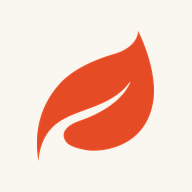
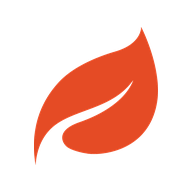
Add files via upload

diff --git a/index.html b/index.html
@@ -7,14 +7,12 @@
 <meta name="apple-mobile-web-app-status-bar-style" content="black-translucent">
 <meta name="apple-mobile-web-app-title" content="Aspen Spas">
 <meta name="mobile-web-app-capable" content="yes">
-<meta name="theme-color" content="#1a1410">
+<meta name="theme-color" content="#2C221C">
 <link rel="manifest" href="manifest.json">
-<!-- Aspen Spas Delivery icon: two movers carrying a spa (matches the team's actual work) -->
[5 lines of base64/hex data omitted]
+<!-- Aspen Spas leaf icon (PWA install + favicon) -->
+<link rel="apple-touch-icon" sizes="180x180" href="apple-touch-icon.png">
+<link rel="icon" type="image/png" sizes="32x32" href="favicon-32.png">
+<link rel="icon" type="image/png" sizes="16x16" href="favicon-16.png">
 <title>Aspen Spas — Delivery Tracker</title>
 <script src="https://www.gstatic.com/firebasejs/10.12.2/firebase-app-compat.js"></script>
 <script src="https://www.gstatic.com/firebasejs/10.12.2/firebase-database-compat.js"></script>
@@ -26,6 +24,7 @@
 <script src="https://apis.google.com/js/api.js" async defer></script>
 <!-- PDF.js for invoice auto-fill -->
 <script src="https://cdnjs.cloudflare.com/ajax/libs/pdf.js/3.11.174/pdf.min.js"></script>
+<link rel="preconnect" href="https://fonts.googleapis.com"><link rel="preconnect" href="https://fonts.gstatic.com" crossorigin><link href="https://fonts.googleapis.com/css2?family=Fraunces:opsz,wght@9..144,500;9..144,600;9..144,700&display=swap" rel="stylesheet">
 <style>
 *{margin:0;padding:0;box-sizing:border-box}
 :root{
@@ -1094,6 +1093,115 @@ th,td{padding:7px 6px}
 .aspen-subtitle{margin-top:9px !important;opacity:.85}
 .filters{position:sticky !important;top:0 !important;z-index:25 !important;background:var(--bg-cream) !important;padding-top:12px !important;padding-bottom:12px !important;box-shadow:0 6px 12px -10px rgba(94,67,41,.4)}
 
+/* ===== Aspen Warm — Stage 1 (brand theme overrides, CSS-only) 2026-06-29 ===== */
+:root{
+  --aspen-orange:#E54B25;        /* true brand leaf orange (was #e67e2e) */
+  --aspen-orange-dark:#C73C18;
+  --bg-cream:#F4EDE1;            /* warmer cream canvas */
+  --aspen-black:#2C221C;        /* espresso header (was #1a1410) */
+  --border-soft:#E7DCC9;        /* warm hairlines */
+  --border-mid:#D9CDB7;
+}
+.aspen-logo-text{font-family:'Fraunces',Georgia,serif;font-weight:600;letter-spacing:.01em}
+.aspen-subtitle{letter-spacing:.3em}
+.c-name{font-family:'Fraunces',Georgia,serif;font-weight:600;letter-spacing:.004em}
+.cal-title{font-family:'Fraunces',Georgia,serif;font-weight:600}
+.card{border-radius:14px}
+
+/* ===== Aspen Warm — Stage 2 (Today route landing) 2026-06-29 ===== */
+.rt2{max-width:960px;margin:0 auto;padding:6px 4px 30px}
+.rt2-head{display:flex;justify-content:space-between;align-items:flex-end;gap:16px;flex-wrap:wrap;margin-bottom:16px}
+.rt2-kicker{font-size:12px;font-weight:700;letter-spacing:.04em;color:var(--aspen-orange)}
+.rt2-title{font-family:'Fraunces',Georgia,serif;font-weight:600;font-size:26px;color:var(--text-primary);margin-top:4px}
+.rt2-sub{font-size:13.5px;color:var(--text-secondary);margin-top:4px}
+.rt2-nav{display:flex;align-items:center;gap:6px}
+.rt2-ibtn,.rt2-today{height:36px;border:1px solid var(--border-mid);background:var(--bg-card);border-radius:10px;color:var(--text-secondary);font-weight:600;cursor:pointer}
+.rt2-ibtn{width:36px}.rt2-today{padding:0 13px;font-size:13px}
+.rt2-date{height:36px;border:1px solid var(--border-mid);background:var(--bg-card);border-radius:10px;padding:0 10px;color:var(--text-primary);font-family:inherit;font-size:13px}
+.rt2-depot{display:flex;justify-content:space-between;align-items:center;gap:12px;flex-wrap:wrap;font-size:12.5px;color:var(--text-secondary);background:var(--bg-card);border:1px solid var(--border-soft);border-radius:12px;padding:10px 14px;margin-bottom:12px}
+.rt2-route-go{font-weight:700;color:var(--aspen-orange);text-decoration:none}
+.rt2-warn{font-size:12px;color:#9a6a2a;background:#fbf1dd;border:1px solid #efdcb4;border-radius:10px;padding:8px 12px;margin-bottom:12px}
+.rt2-stops{display:flex;flex-direction:column;gap:11px}
+.rt2-stop{display:flex;gap:14px;background:var(--bg-card);border:1px solid var(--border-soft);border-left:4px solid var(--aspen-orange);border-radius:14px;padding:14px 16px;cursor:pointer;box-shadow:var(--shadow-card);transition:transform .12s,box-shadow .12s}
+.rt2-stop:hover{transform:translateX(2px);box-shadow:var(--shadow-card-hover)}
+.rt2-stop.upcoming{border-left-color:#1C8FA8}
+.rt2-stop.overdue,.rt2-stop.action{border-left-color:var(--aspen-orange)}
+.rt2-stop.delivered,.rt2-stop.complete{border-left-color:#2F7D52}
+.rt2-stop.hold{border-left-color:#b08968;opacity:.85}
+.rt2-num{flex:0 0 auto;width:34px;height:34px;border-radius:10px;background:var(--bg-cream);border:1px solid var(--border-soft);display:flex;align-items:center;justify-content:center;font-family:'Fraunces',Georgia,serif;font-weight:600;font-size:16px;color:var(--text-primary)}
+.rt2-body{flex:1;min-width:0}
+.rt2-row1{display:flex;justify-content:space-between;align-items:flex-start;gap:10px}
+.rt2-name{font-family:'Fraunces',Georgia,serif;font-weight:600;font-size:16px;color:var(--text-primary)}
+.rt2-pay{font-size:11.5px;font-weight:700;padding:3px 9px;border-radius:20px;white-space:nowrap}
+.rt2-pay.paid{background:#E6F0E7;color:#2F7D52}
+.rt2-pay.due{background:#FBEAE2;color:#BE4A2F}
+.rt2-ret{font-size:10.5px;font-weight:700;color:#BE4A2F;margin-left:8px}
+.rt2-meta{font-size:12.5px;color:var(--text-secondary);margin-top:3px}
+.rt2-addr{font-size:12.5px;color:var(--text-secondary);margin-top:5px}
+.rt2-foot{display:flex;align-items:center;gap:10px;margin-top:9px}
+.rt2-slot{font-size:11px;font-weight:700;color:var(--text-secondary);background:var(--bg-cream);border:1px solid var(--border-soft);padding:3px 9px;border-radius:20px}
+.rt2-tech{font-size:12px;color:var(--text-secondary)}
+.rt2-maps{margin-left:auto;font-size:12px;font-weight:700;color:var(--aspen-orange);background:none;border:1px solid var(--border-mid);border-radius:8px;padding:5px 11px;cursor:pointer}
+.rt2-maps:hover{background:var(--bg-cream)}
+.rt2-empty{text-align:center;color:var(--text-secondary);padding:50px 20px;background:var(--bg-card);border:1px dashed var(--border-mid);border-radius:14px}
+
+/* ===== Aspen Warm — Stage 3 (calendar: warm chips + side panel) 2026-06-29 ===== */
+.cal-vbtn.act{background:var(--aspen-orange);border-color:var(--aspen-orange);color:#fff}
+.cal-cell:hover{background:var(--bg-cream)}
+.cal-cell.today{background:rgba(229,75,37,.07);border-color:rgba(229,75,37,.45)}
+.cal-cell.today .cal-dn{color:var(--aspen-orange)}
+.cal-more{color:var(--aspen-orange)}
+.cal-ev{border-radius:6px}
+.cal-ev.upcoming{background:#E2F0F2;color:#0E5C6B;border-left-color:#1C8FA8}
+.cal-ev.overdue{background:#FBEAE2;color:#BE4A2F;border-left-color:#BE4A2F}
+.cal-ev.action{background:#F6E7DD;color:#C03D12;border-left-color:#E54B25}
+.cal-ev.delivered,.cal-ev.complete{background:#E6F0E7;color:#2F7D52;border-left-color:#2F7D52}
+.cal-ev.sel{outline:2px solid var(--aspen-orange);outline-offset:-1px}
+.cal-wk-label.today{background:rgba(229,75,37,.08)}
+.cal-wk-label.today .cw-day{color:var(--aspen-orange)}
+.cal-wk-ev.sel{background:rgba(229,75,37,.10)}
+.cal-split{display:flex;gap:18px;align-items:flex-start}
+#calBody{flex:1;min-width:0}
+.cal-rail{display:none}
+.cal-split.open .cal-rail{display:block;flex:0 0 360px;position:sticky;top:14px}
+@media(max-width:1000px){.cal-split{flex-direction:column}.cal-split.open .cal-rail{flex:none;width:100%;position:static}}
+.crl-card{background:var(--bg-card);border:1px solid var(--border-soft);border-radius:16px;overflow:hidden;box-shadow:var(--shadow-card-hover)}
+.crl-head{background:#2C221C;color:#F0E7DA;padding:16px 18px;position:relative}
+.crl-x{position:absolute;top:12px;right:12px;width:28px;height:28px;border-radius:8px;border:1px solid rgba(255,255,255,.2);color:#CFC0B0;background:none;cursor:pointer}
+.crl-nm{font-family:'Fraunces',Georgia,serif;font-weight:600;font-size:18px;padding-right:30px}
+.crl-sub{font-size:12px;color:#C9AE99;margin-top:5px}
+.crl-pill{display:inline-block;margin-top:9px;font-size:10px;font-weight:800;letter-spacing:.05em;text-transform:uppercase;padding:4px 10px;border-radius:20px;background:rgba(255,255,255,.16);color:#F3E7DA}
+.crl-body{padding:16px 18px}
+.crl-actions{display:flex;gap:8px;margin-bottom:14px}
+.crl-btn{flex:1;padding:9px;border-radius:10px;font-weight:700;font-size:13px;border:1px solid var(--border-mid);background:var(--bg-cream);color:var(--text-secondary);cursor:pointer}
+.crl-btn.go{background:var(--aspen-orange);color:#fff;border-color:var(--aspen-orange)}
+.crl-row{display:flex;gap:7px;font-size:13px;color:var(--text-secondary);margin-bottom:9px}
+.crl-grid{display:grid;grid-template-columns:1fr 1fr;gap:9px;margin-top:4px}
+.crl-cell{background:var(--bg-cream);border:1px solid var(--border-soft);border-radius:10px;padding:9px 11px}
+.crl-cell .l{font-size:10px;font-weight:700;letter-spacing:.05em;text-transform:uppercase;color:var(--text-tertiary)}
+.crl-cell .v{font-size:14px;font-weight:700;color:var(--text-primary);margin-top:3px}
+.crl-cell.bal{grid-column:1/-1;background:#E6F0E7;border-color:#cfe6d6}.crl-cell.bal .v{color:#2F7D52}
+.crl-cell.bal.due{background:#FBEAE2;border-color:#f0cfc2}.crl-cell.bal.due .v{color:#BE4A2F}
+.crl-sect{font-size:10px;font-weight:800;letter-spacing:.06em;text-transform:uppercase;color:var(--aspen-orange);margin:14px 0 8px}
+.crl-tags{display:flex;gap:6px;flex-wrap:wrap}
+.crl-tag{font-size:12px;font-weight:600;padding:5px 10px;border-radius:8px;border:1px solid var(--border-mid);color:var(--text-secondary)}
+.crl-note{background:var(--bg-cream);border:1px solid var(--border-soft);border-left:3px solid var(--aspen-orange);border-radius:0 10px 10px 0;padding:10px 12px;font-size:13px;color:var(--text-secondary);line-height:1.5}
+
+/* ===== Aspen Warm — Warm/Bold calendar toggle (variants A + C) 2026-06-29 ===== */
+.cal-style{display:flex;background:var(--surf-soft);border:2px solid var(--hairline);border-radius:9px;padding:2px;margin-left:8px}
+.cal-style-btn{padding:6px 12px;border-radius:7px;font-weight:700;font-size:12px;color:var(--ink-mid);background:none;border:none;cursor:pointer}
+.cal-style-btn.act{background:var(--aspen-orange);color:#fff}
+.cal-bold .cal-ev{color:#fff;border-left-color:transparent}
+.cal-bold .cal-ev.upcoming{background:#1C8FA8}
+.cal-bold .cal-ev.overdue{background:#BE4A2F}
+.cal-bold .cal-ev.action{background:#E54B25}
+.cal-bold .cal-ev.delivered,.cal-bold .cal-ev.complete{background:#2F7D52}
+.cal-bold .cal-ev .ce-sub{opacity:.92;color:#fff}
+.cal-bold .cal-ev.sel{outline-color:var(--aspen-black)}
+.cal-bold .crl-head{background:var(--st);color:#fff}
+.cal-bold .crl-head .crl-sub{color:rgba(255,255,255,.85)}
+.cal-bold .crl-head .crl-x{border-color:rgba(255,255,255,.35);color:#fff}
+.cal-bold .crl-head .crl-pill{background:rgba(255,255,255,.22);color:#fff}
 </style>
 <script>
 // === PWA SERVICE WORKER (network-first) ===
@@ -1232,9 +1340,9 @@ navigator.serviceWorker.register('sw.js').then(reg=>{console.log('[PWA] SW regis
 <div class="cal-wrap hidden" id="calWrap">
 <div class="cal-hdr">
 <div class="cal-nav"><button class="cal-nbtn" onclick="calNav(-1)">&#9664;</button><button class="cal-nbtn" onclick="calNav(0)">Today</button><button class="cal-nbtn" onclick="calNav(1)">&#9654;</button><span class="cal-title" id="calTitle"></span></div>
-<div class="cal-views"><button class="cal-vbtn" data-v="month" onclick="setCalView('month')">Month</button><button class="cal-vbtn" data-v="week" onclick="setCalView('week')">Week</button><button class="cal-vbtn" data-v="day" onclick="setCalView('day')">Day</button></div>
+<div class="cal-views"><button class="cal-vbtn" data-v="month" onclick="setCalView('month')">Month</button><button class="cal-vbtn" data-v="week" onclick="setCalView('week')">Week</button><button class="cal-vbtn" data-v="day" onclick="setCalView('day')">Day</button></div><div class="cal-style"><button class="cal-style-btn act" data-s="warm" onclick="setCalStyle('warm')">Warm</button><button class="cal-style-btn" data-s="bold" onclick="setCalStyle('bold')">Bold</button></div>
 </div>
-<div id="calBody"></div>
+<div class="cal-split" id="calSplit"><div id="calBody"></div><aside class="cal-rail" id="calRail"></aside></div>
 </div>
 <div class="charts" id="charts"></div>
 <div class="ov hidden" id="ov" onclick="closeOv()"><div class="mdl" id="md" onclick="event.stopPropagation()"></div></div>
@@ -1316,8 +1424,8 @@ const db=firebase.database();
 // Every other open client is listening and, on seeing a higher build, force-reloads
 // itself with a cache-busting URL so it pulls the fresh file from GitHub Pages. This
 // guarantees every user is on the newest version without anyone re-uploading anything.
-const APP_BUILD   = 2026062902;            // ⬆ INCREASE THIS NUMBER EVERY TIME YOU DEPLOY
-const APP_VERSION = 'v2026.06.29 (build 15) — stale-link / blank-stub repair'; // human-readable label (shown in console)
+const APP_BUILD   = 2026062907;            // ⬆ INCREASE THIS NUMBER EVERY TIME YOU DEPLOY
+const APP_VERSION = 'v2026.06.29 (build 20) — calendar Warm/Bold toggle'; // human-readable label (shown in console)
 console.log('%c[VERSION] Aspen Delivery Tracker '+APP_VERSION+' — build '+APP_BUILD,'color:#fff;background:#D4772C;padding:2px 8px;border-radius:4px;font-weight:700');
 const dbAppMeta=db.ref('app_meta/build');
 // === ANONYMOUS AUTH GATE ===
@@ -3443,7 +3551,7 @@ function renderAfterAuth(){
 if(!currentUser)return;
 if(typeof startIntakeListener==='function')startIntakeListener();
 if(currentUser.role==='tech'){renderTechList()}
-else{renderAll()}
+else{renderAll();setTab('route')}
 // PAGE-LOAD AUTO-REPAIR: 3 seconds after the user lands, scan for cross-linked tickets and
 // break wrong links so the user never sees stale state for more than that delay. The 3-second
 // wait gives the gcalMap listener (which is not part of the _loadCount=3 gate) time to receive
@@ -3909,38 +4017,36 @@ var res=_routeStops();var stops=res.list;
 var dObj=new Date(res.key+'T00:00:00');
 var human=dObj.toLocaleDateString(undefined,{weekday:'long',month:'long',day:'numeric'});
 var todayKey=_routeKey(new Date());
-var h='<div class="route-inner">';
-h+='<div class="route-head"><h2>🗺 Day Route Plan</h2></div>';
-// date navigator
-h+='<div class="route-nav">';
-h+='<button class="rn-btn" onclick="routeShift(-1)" title="Previous day">&#8592;</button>';
-h+='<input type="date" class="rn-date" id="routeDateInput" value="'+res.key+'" onchange="routeSetDate(this.value)">';
-h+='<button class="rn-btn" onclick="routeShift(1)" title="Next day">&#8594;</button>';
-if(res.key!==todayKey)h+='<button class="rn-today" onclick="routeDate=null;renderRoutePlan()">Today</button>';
-h+='</div>';
-h+='<div class="route-day">'+human+' \u00b7 <b>'+stops.length+'</b> stop'+(stops.length===1?'':'s')+'</div>';
+var isToday=res.key===todayKey;
+var toCollect=0,crew={};
+stops.forEach(function(r){if(r.bl>0)toCollect+=Number(r.bl)||0;if(r.assigned_to)crew[r.assigned_to]=1;});
+var crewN=Object.keys(crew).length;
+var h='<div class="rt2">';
+h+='<div class="rt2-head"><div><div class="rt2-kicker">'+(isToday?'Today\u2019s route':'Route plan')+'</div><h2 class="rt2-title">'+human+'</h2><div class="rt2-sub">'+stops.length+' stop'+(stops.length===1?'':'s')+(toCollect>0?' \u00b7 '+fmt(toCollect)+' to collect':'')+(crewN?' \u00b7 '+crewN+' crew':'')+'</div></div>';
+h+='<div class="rt2-nav"><button class="rt2-ibtn" onclick="routeShift(-1)" title="Previous day">\u2190</button><input type="date" class="rt2-date" value="'+res.key+'" onchange="routeSetDate(this.value)"><button class="rt2-ibtn" onclick="routeShift(1)" title="Next day">\u2192</button>'+(isToday?'':'<button class="rt2-today" onclick="routeDate=null;renderRoutePlan()">Today</button>')+'</div></div>';
 if(!stops.length){
-h+='<div class="route-empty">🚚 No deliveries with an address scheduled for this day.</div>';
+h+='<div class="rt2-empty">\uD83D\uDE9A No deliveries with an address scheduled for this day.</div>';
 }else{
-// Open-full-route button
-var url=_gmapsRoute(stops);
-if(url)h+='<a class="route-go" href="'+url+'" target="_blank" rel="noopener">🗺 Open full route in Google Maps (from depot)</a>';
-if(stops.length>9)h+='<div class="route-warn">\u26A0\uFE0F Showing first 9 stops in the route link (Google Maps URL limit). All stops are listed below individually.</div>';
-// Stop list
-h+='<div class="route-stops">';
-h+='<div class="route-stop depot"><span class="rs-num">📍</span><div class="rs-body"><div class="rs-name">Aspen Spas (Depot)</div><div class="rs-addr">'+ROUTE_DEPOT+'</div></div></div>';
+var fullUrl=_gmapsRoute(stops);
+h+='<div class="rt2-depot"><span>\uD83D\uDCCD From depot \u00b7 '+escHtml(ROUTE_DEPOT)+'</span>'+(fullUrl?'<a class="rt2-route-go" href="'+fullUrl+'" target="_blank" rel="noopener">\uD83D\uDDFA\uFE0F Open full route</a>':'')+'</div>';
+if(stops.length>9)h+='<div class="rt2-warn">\u26A0\uFE0F Full-route link shows the first 9 stops (Google Maps limit); all stops are listed below.</div>';
+h+='<div class="rt2-stops">';
 stops.forEach(function(r,i){
+var s=st(r);
 var tech=r.assigned_to&&USERS[r.assigned_to]?USERS[r.assigned_to].name:'Unassigned';
 var slot=String(r.dd||'').toLowerCase();var slotLbl=slot.indexOf('am')>=0?'AM':(slot.indexOf('pm')>=0?'PM':'All day');
 var addr1=encodeURIComponent(r.st.replace(/\n/g,' '));
 var stopUrl='https://www.google.com/maps/search/?api=1&query='+addr1;
-var ret=(r.sl&&!r.co)?'<span class="rs-return">'+'\u{1F504} Return</span>':'';
-h+='<a class="route-stop" href="'+stopUrl+'" target="_blank" rel="noopener">'+
-'<span class="rs-num">'+(i+1)+'</span>'+
-'<div class="rs-body"><div class="rs-name">'+escHtml(r.n)+ret+'</div>'+
-'<div class="rs-addr">📍 '+escHtml(r.st.replace(/\n/g,', '))+'</div>'+
-'<div class="rs-meta"><span class="rs-slot">'+slotLbl+'</span><span class="rs-spa">'+escHtml(r.sp||'')+'</span><span class="rs-tech">👤 '+escHtml(tech)+'</span></div>'+
-'</div></a>';
+var pay=r.bl>0?'<span class="rt2-pay due">'+fmt(r.bl)+' due</span>':'<span class="rt2-pay paid">Paid</span>';
+var ret=(r.sl&&!r.co)?'<span class="rt2-ret">\uD83D\uDD04 Return</span>':'';
+h+='<div class="rt2-stop '+s+'" onclick="openDet('+r.i+')">'+
+'<div class="rt2-num">'+(i+1)+'</div>'+
+'<div class="rt2-body">'+
+'<div class="rt2-row1"><div class="rt2-name">'+escHtml(dispName(r))+ret+'</div>'+pay+'</div>'+
+'<div class="rt2-meta">'+(r.sn?'SN '+escHtml(r.sn)+' \u00b7 ':'')+escHtml(r.sp||'')+'</div>'+
+'<div class="rt2-addr">\uD83D\uDCCD '+escHtml(r.st.replace(/\n/g,', '))+'</div>'+
+'<div class="rt2-foot"><span class="rt2-slot">'+slotLbl+'</span><span class="rt2-tech">\uD83D\uDC64 '+escHtml(tech)+'</span><button class="rt2-maps" onclick="event.stopPropagation();window.open(\''+stopUrl+'\',\'_blank\')">Maps</button></div>'+
+'</div></div>';
 });
 h+='</div>';
 }
@@ -9070,15 +9176,43 @@ return true
 }).map(r=>{let d=parseDate(r.dd);if(!d||isNaN(d))return null;return{r:r,d:d,s:st(r)}}).filter(Boolean)}
 function evsByDate(evs){let m={};evs.forEach(e=>{let k=e.d.getFullYear()+'-'+String(e.d.getMonth()+1).padStart(2,'0')+'-'+String(e.d.getDate()).padStart(2,'0');if(!m[k])m[k]=[];m[k].push(e)});return m}
 
-function setCalView(v){calView=v;document.querySelectorAll('.cal-vbtn').forEach(b=>b.classList.toggle('act',b.dataset.v===v));renderCalendar()}
-function calNav(dir){
+function setCalView(v){calView=v;calRailReset();document.querySelectorAll('.cal-vbtn').forEach(b=>b.classList.toggle('act',b.dataset.v===v));renderCalendar()}
+function calNav(dir){calRailReset();
 if(dir===0){calDate=new Date();renderCalendar();return}
 if(calView==='month'){calDate.setMonth(calDate.getMonth()+dir)}
 else if(calView==='week'){calDate.setDate(calDate.getDate()+(dir*7))}
 else{calDate.setDate(calDate.getDate()+dir)}
 renderCalendar()}
 
+var calSelId=null;
+var calStyle=(function(){try{return localStorage.getItem('aspenCalStyle')||'warm'}catch(e){return 'warm'}})();
+function setCalStyle(s){calStyle=s;try{localStorage.setItem('aspenCalStyle',s)}catch(e){}var cw=document.getElementById('calWrap');if(cw)cw.classList.toggle('cal-bold',s==='bold');document.querySelectorAll('.cal-style-btn').forEach(function(b){b.classList.toggle('act',b.dataset.s===s)});}
+function calRailReset(){calSelId=null;var cs=document.getElementById('calSplit');if(cs)cs.classList.remove('open');var cr=document.getElementById('calRail');if(cr)cr.innerHTML='';}
+function calRailClose(){calRailReset();renderCalendar();}
+function calPick(id){calSelId=id;var sp=document.getElementById('calSplit');if(sp)sp.classList.add('open');var r=AD().find(function(x){return sameId(x.i,id)});var rail=document.getElementById('calRail');if(rail)rail.innerHTML=calRailHTML(r);renderCalendar();}
+function calRailHTML(r){
+if(!r)return '';
+var s=st(r);var due=r.bl>0;
+var tech=r.assigned_to&&USERS[r.assigned_to]?USERS[r.assigned_to].name:'Unassigned';
+var addr=r.st?escHtml(r.st.replace(/\n/g,', ')):'';
+var mapsUrl=r.st?'https://www.google.com/maps/search/?api=1&query='+encodeURIComponent(r.st.replace(/\n/g,' ')):'';
+var reqs=[];if(r.crane)reqs.push('Crane');if(r.extra_person)reqs.push('Extra person');if(r.water_truck)reqs.push('Water truck');
+var note=r.hold?'':(r.dnotes||r.en||r.cn||'');
+var stMap={upcoming:'#1C8FA8',overdue:'#BE4A2F',action:'#E54B25',delivered:'#2F7D52',complete:'#2F7D52',hold:'#8a7460'};var stCol=stMap[s]||'#1C8FA8';var h='<div class="crl-card" style="--st:'+stCol+'"><div class="crl-head"><button class="crl-x" onclick="calRailClose()">\u2715</button>';
+h+='<div class="crl-nm">'+escHtml(dispName(r))+'</div>';
+h+='<div class="crl-sub">'+(r.sn?'SN '+escHtml(r.sn)+' \u00b7 ':'')+fmtDate(r.dd)+(r.sp?' \u00b7 '+escHtml(r.sp):'')+'</div>';
+h+='<span class="crl-pill '+s+'">'+sL(s)+'</span></div><div class="crl-body">';
+h+='<div class="crl-actions"><button class="crl-btn go" onclick="openDet('+r.i+')">Open full ticket</button>'+(mapsUrl?'<button class="crl-btn" onclick="window.open(\''+mapsUrl+'\',\'_blank\')">Maps</button>':'')+'</div>';
+if(addr)h+='<div class="crl-row">\uD83D\uDCCD '+addr+'</div>';
+h+='<div class="crl-row">\uD83D\uDC64 '+escHtml(tech)+'</div>';
+h+='<div class="crl-grid"><div class="crl-cell bal'+(due?' due':'')+'"><div class="l">'+(due?'Balance to collect':'Balance')+'</div><div class="v">'+fmt(due?r.bl:0)+'</div></div>';
+if(r.pst){var pl={paid:'Paid',check:'Check',financed:'Financed',cash:'CASH'}[r.pst]||r.pst;h+='<div class="crl-cell"><div class="l">Payment</div><div class="v">'+pl+'</div></div>';}
+h+='</div>';
+if(reqs.length)h+='<div class="crl-sect">Requirements</div><div class="crl-tags">'+reqs.map(function(x){return '<span class="crl-tag">'+x+'</span>'}).join('')+'</div>';
+if(note)h+='<div class="crl-sect">Notes</div><div class="crl-note">'+escHtml(note)+'</div>';
+h+='</div></div>';return h;}
 function renderCalendar(){
+var _cw=document.getElementById('calWrap');if(_cw)_cw.classList.toggle('cal-bold',calStyle==='bold');document.querySelectorAll('.cal-style-btn').forEach(function(b){b.classList.toggle('act',b.dataset.s===calStyle)});
 document.querySelectorAll('.cal-vbtn').forEach(b=>b.classList.toggle('act',b.dataset.v===calView));
 if(calView==='month')renderCalMonth();
 else if(calView==='week')renderCalWeek();
@@ -9119,13 +9253,13 @@ let titleAttr=r.n+(r.sp?' — '+r.sp:'')+(r.sn?' (SN '+r.sn+')':'');
 // EXCEPTION: tickets on Hold always use the .hold class so they look visibly parked even if
 // they kept their original GCal color.
 let gStyle=r.hold?null:gcalColorStyle(r);
-let evClass='cal-ev'+(gStyle?'':' '+e.s);
+let evClass='cal-ev'+(gStyle?'':' '+e.s)+(r.i===calSelId?' sel':'');
 let evStyle=gStyle?' style="'+gStyle+'"':'';
 // Only events with an allowed color can be dragged (matches Alberto's bidirectional rule).
 // Completed events are non-draggable too — moving a delivered event makes no sense.
 let canDrag=!isCalendarReadOnly(r)&&r.gcalColorId&&typeof isAllowedColor==='function'&&isAllowedColor(r.gcalColorId);
 let dragAttrs=canDrag?' draggable="true" ondragstart="calEvDragStart(event,'+r.i+')" ondragend="calEvDragEnd(event)"':'';
-h+='<div class="'+evClass+'"'+evStyle+dragAttrs+' onclick="event.stopPropagation();openDet('+r.i+')" title="'+escHtml(titleAttr)+(canDrag?' (drag to move date)':'')+'"><span class="ce-name">'+escHtml(nm)+'</span>'+(sub?'<span class="ce-sub">'+escHtml(sub)+'</span>':'')+'</div>'});
+h+='<div class="'+evClass+'"'+evStyle+dragAttrs+' onclick="event.stopPropagation();calPick('+r.i+')" title="'+escHtml(titleAttr)+(canDrag?' (drag to move date)':'')+'"><span class="ce-name">'+escHtml(nm)+'</span>'+(sub?'<span class="ce-sub">'+escHtml(sub)+'</span>':'')+'</div>'});
 if(dayEvs.length>3)h+='<div class="cal-more" onclick="calDate=new Date('+y+','+(m)+','+d+');setCalView(\'day\')">+' +(dayEvs.length-3)+' more</div>';
 h+='</div>'}
 // Trailing blanks
@@ -9211,7 +9345,7 @@ let r=e.r;
 let dotColor=gcalDotColor(r)||sC2(e.s);
 let canDrag=!isCalendarReadOnly(r)&&r.gcalColorId&&typeof isAllowedColor==='function'&&isAllowedColor(r.gcalColorId);
 let dragAttrs=canDrag?' draggable="true" ondragstart="calEvDragStart(event,'+r.i+')" ondragend="calEvDragEnd(event)"':'';
-h+='<div class="cal-wk-ev"'+dragAttrs+' onclick="openDet('+r.i+')"'+(canDrag?' title="Drag to move date"':'')+'><div class="ev-dot" style="background:'+dotColor+'"></div><div class="ev-name">'+dispName(r)+'</div><div class="ev-spa">'+(r.sp||'')+'</div><div class="ev-time">'+dateNote(r.dd).trim()+'</div></div>'});
+h+='<div class="cal-wk-ev'+(r.i===calSelId?' sel':'')+'"'+dragAttrs+' onclick="calPick('+r.i+')"'+(canDrag?' title="Drag to move date"':'')+'><div class="ev-dot" style="background:'+dotColor+'"></div><div class="ev-name">'+dispName(r)+'</div><div class="ev-spa">'+(r.sp||'')+'</div><div class="ev-time">'+dateNote(r.dd).trim()+'</div></div>'});
 h+='</div></div>'}
 h+='</div>';document.getElementById('calBody').innerHTML=h}
 
@@ -9226,7 +9360,7 @@ if(!dayEvs.length)h+='<div style="padding:40px;text-align:center;color:var(--ink
 dayEvs.forEach(e=>{
 let r=e.r;
 let dotColor=gcalDotColor(r)||sC2(e.s);
-h+='<div class="cal-wk-row" style="grid-template-columns:1fr;cursor:pointer" onclick="openDet('+r.i+')">';
+h+='<div class="cal-wk-row" style="grid-template-columns:1fr;cursor:pointer" onclick="calPick('+r.i+')">';
 h+='<div style="padding:12px 16px;display:flex;align-items:center;gap:12px;flex-wrap:wrap">';
 h+='<div class="ev-dot" style="background:'+dotColor+';width:10px;height:10px"></div>';
 h+='<div style="flex:1;min-width:200px"><div style="font-size:15px;font-weight:800;color:var(--ink-strong)">'+escHtml(dispName(r))+'</div><div style="font-size:12px;color:var(--ink-mid);margin-top:2px">'+(r.sp||'—')+(r.sn?' &bull; SN: '+r.sn:'')+'</div></div>';
